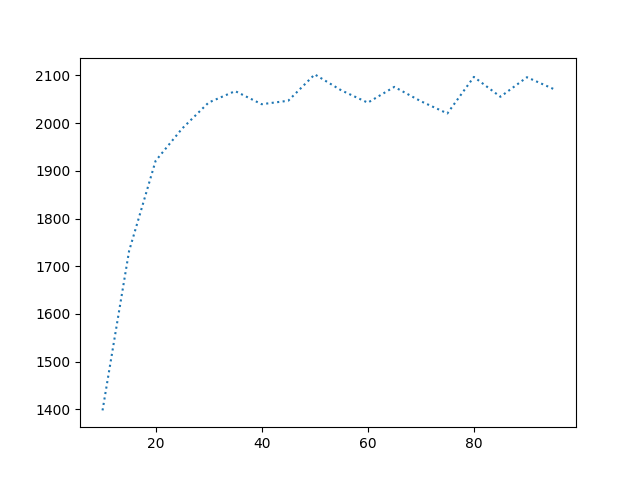
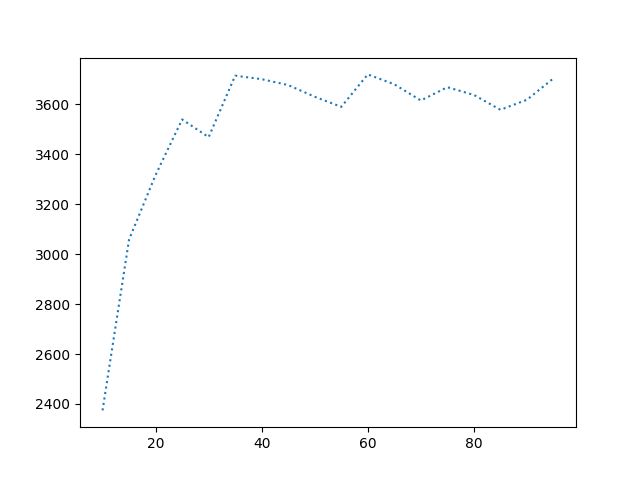
presentation version-06/12/22 Philo

diff --git a/game_logic.py b/game_logic.py
@@ -3,7 +3,6 @@ from dataclasses import dataclass
 
 import numpy as np
 import pandas as pd
-import numpy
 import random
 import matplotlib
 
@@ -551,8 +550,13 @@ def simulation(player: Player, start_level: int, running_num: int, scenario: str
         value_record.append(this_time.total_value)
     print(value_record)
     if if_drawn:
-        plt.hist(value_record, bins=40)
+        plt.hist(value_record, bins=40, label = profession)
         plt.savefig(scenario + "-" + "-" + str(running_num))
+        plt.xlabel("Number of Simulation", fontsize=12)
+        plt.ylabel("Total Value", fontsize=12)
+        handles = [Rectangle((0, 0), 1, 1, color=c) for c in ["Blue", "Orange"]]
+        labels = ["Ruby Ring", "Jade Ring"]
+        plt.legend(handles, labels)
     print("The average value the player gained in this scenario is:" + str(sum(value_record) / len(value_record)))
     return sum(value_record) / len(value_record)
 
@@ -577,7 +581,7 @@ def test_correlation_damage():
         min_damage = i
         max_damage = i + 10
         player_tp.set_player_att([min_damage, max_damage, 0, 0, 0, 0, 0, 0])
-        result_lis.append(simulation(player_tp, 1, 100, "correlation_with_damage", False))
+        result_lis.append(simulation(player_tp, 1, 100, "correlation_with_damage", False, profession=None))
         x_axis.append(i)
     print(x_axis)
     print(result_lis)
@@ -619,19 +623,40 @@ def test_correlation_others(attr: str, profession):
 # hypothesis1 #
 # When equipped with the infinity dagger, it is more rewarding to start from 80th floor than from 0 floor. #
 ############
-# player1 = Player()
-# a = 'Sneakers'
-# equ = Equipment(a)
-# b = "Infinity Dagger"
-# equ = Equipment(b)
-# player1.set_player_equipments([a, b, '', ''])
-# player1.generate_att_from_equip()
-# simulation(player1, 1, 1000, "hypothesis1-1", True, profession=None)
-# simulation(player1, 80, 1000, "hypothesis1-80", True,profession=None)
-############
+player1 = Player()
+a = 'Sneakers'
+b = "Infinity Dagger"
+player1.set_player_equipments([a, b, '', ''])
+player1.generate_att_from_equip()
+s1 = simulation(player1, 1, 1000, "hypothesis1-1", True, profession=None)
+s2 = simulation(player1, 80, 1000, "hypothesis1-80", True,profession=None)
+print("The average value the player gained in this hypothesis1-1 is:" + str(s1))
+print("The average value the player gained in this shypothesis1-80 is:" + str(s2))
+# ############
 
 ############
-# hypothesis 2 #
+# hypothesis2 #
+# The ruby ring is more useful than the jade ring when equipped with Burglar's Shank. #
+############
+
+player_ruby = Player()
+a3 = 'Sneakers'
+b3 = "Burglar's Shank"
+c3 = "Ruby Ring"
+player_ruby.set_player_equipments([a3, b3, c3, ''])
+player_ruby.generate_att_from_equip()
+s3 = simulation(player_ruby, 1, 1000, "hypothesis3-RubyRing", True, profession=None)
+player_jade = Player()
+d3 = "Jade Ring"
+player_jade.set_player_equipments([a3, b3, d3, ''])
+player_jade.generate_att_from_equip()
+s4 = simulation(player_jade, 1, 1000, "hypothesis3-JadeRing", True, profession=None)
+print("The average value the player gained in this hypothesis2-RubyRing is:" + str(s3))
+print("The average value the player gained in this shypothesis2-JadeRing is:" + str(s4))
+# ############
+
+############
+# hypothesis 3 #
 # When reaching level 5 of mining skill, it is more rewarding to choose miner than geologist. #
 # We set the player equipments Sneakers and Infinity Dagger #
 # run the simulation 500 times each for miner and geologist #
@@ -682,25 +707,7 @@ Geologist_player.set_player_equipments(['', '', '', ''])
 Geologist_player.generate_att_from_equip()
 simulation_hypo2(Miner_player, 1, 500, "hypothesis2-Miner", True, a)
 simulation_hypo2(Miner_player, 1, 500, "hypothesis2-Geologist", True, b)
-# simulation_hypo2(Miner_player, 1, 500, "hypothesis2-Geologist", True, a)
+simulation_hypo2(Miner_player, 1, 500, "hypothesis2-Geologist", True, a)
 
-############
-# hypothesis3 #
-# The ruby ring is more useful than the jade ring when equipped with Burglar's Shank. #
-############
 
-# player_ruby = Player()
-# a3 = 'Sneakers'
-# b3 = "Burglar's Shank"
-# c3 = "Ruby Ring"
-# player_ruby.set_player_equipments([a3, b3, c3, ''])
-# player_ruby.generate_att_from_equip()
-# simulation(player_ruby, 1, 10, "hypothesis3-RubyRing", True, profession=None)
-# player_jade = Player()
-# d3 = "Jade Ring"
-# player_jade.set_player_equipments([a3, b3, d3, ''])
-# player_jade.generate_att_from_equip()
-# simulation(player_jade, 1, 10, "hypothesis3-JadeRing", True, profession=None)
-############
-
-# test_correlation_others("crit_power", profession = None)
+#test_correlation_damage()
